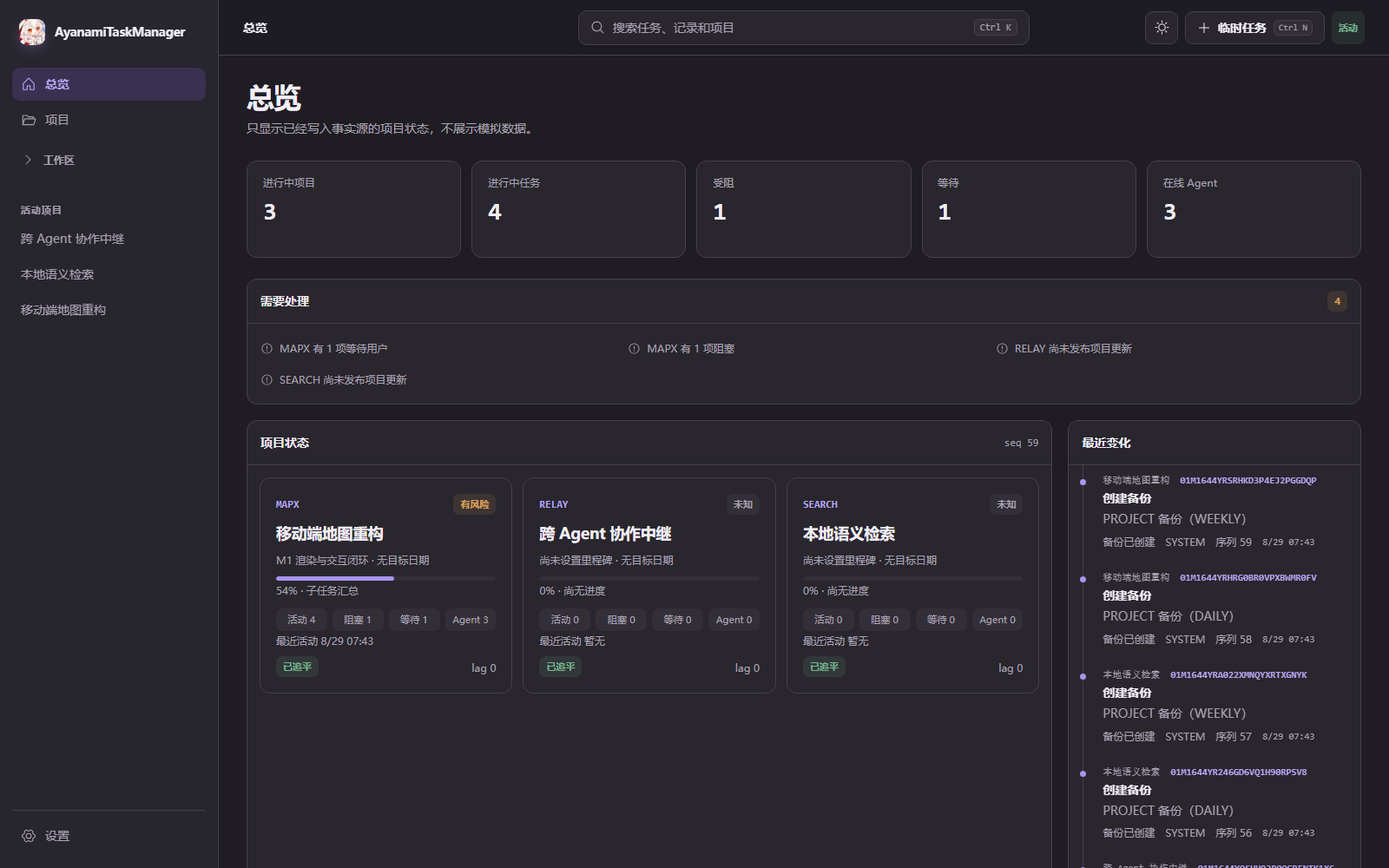
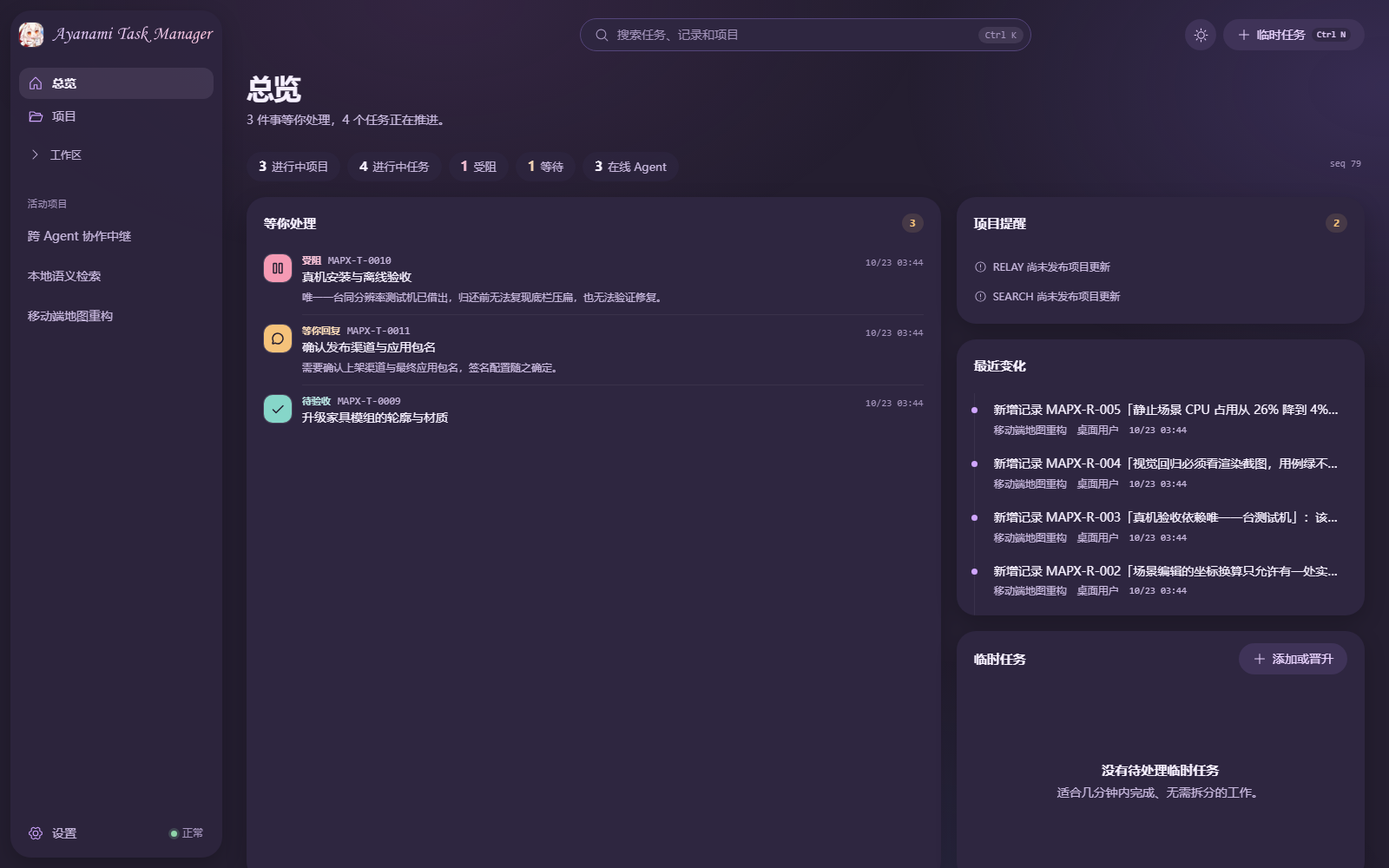
docs(readme): rewrite for 3.0
The README had grown into a stack of per-version sections (3.0.0, 1.1.5, the knowledge
base release) on top of a 2.x benchmark table. It now reads front to back:

- what ATM is for, then three steps to use it (install, connect an agent, one sentence
  to the agent);
- how an agent works with it, the two profiles, the shared knowledge base, and the
  generated tool-surface stats (unchanged, still checked byte for byte);
- the desktop app, with the keep-alive task and optional phone sync;
- 3.0 as one process, with the release gate lines next to the 3.0.0 measurements in
  place of the 2.x service benchmark;
- upgrade and rollback (2.x direct, 1.x through v2.0.0, "ATM 修复"), data locations;
- the security boundary in four lines, how each version is verified, ATM built with ATM,
  local development including the Rust gates.

Screenshots are regenerated from the seeded sample data for the current UI.

diff --git a/README.md b/README.md
@@ -12,7 +12,7 @@
   </p>
 
   <p>
-    <a href="https://github.com/ayanamislover/AyanamiTaskManager/releases/latest"><strong>下载稳定版</strong></a>
+    <a href="https://github.com/ayanamislover/AyanamiTaskManager/releases/latest"><strong>下载 3.0</strong></a>
     ·
     <a href="./docs/user-guide.md">用户指南</a>
     ·
@@ -20,7 +20,7 @@
     ·
     <a href="./docs/security-model.md">安全模型</a>
     ·
-    <a href="./docs/local-knowledge.md">共享知识库</a>
+    <a href="./docs/troubleshooting.md">排障</a>
   </p>
 </div>
 
@@ -29,173 +29,48 @@
 <div align="center">
   <picture>
     <source media="(prefers-color-scheme: dark)" srcset="./docs/assets/screenshot-project-dark.png" />
-    <img src="./docs/assets/screenshot-project-light.png" alt="ATM 项目页：当前进行、阻塞与等待、Agent 与领取、下一步四个面板，以及数据投影状态" width="100%" />
+    <img src="./docs/assets/screenshot-project-light.png" alt="ATM 项目页：目标、里程碑、健康度、进度，以及任务列表" width="100%" />
   </picture>
-  <p><sub>示例数据：结构取自真实项目，字面内容已全部重写。可用 <code>pnpm exec tsx scripts/render-readme-screenshot.ts</code> 复现。</sub></p>
+  <p><sub>示例数据：结构取自真实项目，字面内容全部重写。用 <code>pnpm exec tsx scripts/render-readme-screenshot.ts</code> 复现。</sub></p>
 </div>
 
 ---
 
-Agent 写代码不难，难的是**换一次 Session 就忘了项目到哪儿了**。上下文被压缩、进程重启、换个 Agent 接手——项目历史只活在聊天记录里，于是每次开工都要重新翻一遍，翻完还未必翻对。
+Agent 写代码不难，难的是**换一次 Session 就忘了项目到哪儿了**。上下文被压缩、进程重启、换一个 Agent 接手，项目历史只留在聊天记录里，每次开工都得重新翻一遍，翻完还未必翻对。
 
-AyanamiTaskManager（ATM）把计划、任务、进度、阻塞、长期记录、证据和 Session 交接收进一个稳定的事实源，Agent 开工时读一份 brief 就能接着干。它不是另一份待办清单，也不保存整段对话，只保留真正会影响项目推进的结构化事实。桌面 UI、MCP、CLI 与本地 HTTP 共用同一套事务应用服务——你在界面上看到的，和 Agent 读到的，永远是同一份数据。
+AyanamiTaskManager（ATM）把计划、任务、进度、阻塞、长期记录、证据和 Session 交接放进一个本地事实源。Agent 开工时读一份 brief 就能接着做。它不保存整段对话，只留下会影响项目推进的结构化事实。桌面界面、MCP、CLI 和本地 HTTP 读写的是同一个数据库，你在界面上看到的就是 Agent 读到的。
 
-## 3.0.0 · 单进程原生宿主，数据换到新目录
+## 三步用起来
 
-这一版把 2.x 的 Electron + Node 换成**一个 Rust 原生宿主进程**：窗口、托盘、本地服务与 Agent 接入都在这一个进程里，界面由系统自带的 WebView2 渲染，安装包不再携带 Node。
+1. 从 [Latest Release](https://github.com/ayanamislover/AyanamiTaskManager/releases/latest) 下载 `atm-setup.exe` 并运行。支持 Windows 10/11 x64；界面用系统自带的 WebView2 渲染，一般已经预装。不想安装就用 `AyanamiTaskManager-*-win-x64-portable.zip`。
+2. 打开 ATM，进入「设置 → Agent 接入」，给要用的客户端点「安装」：Codex、Claude Desktop、Claude Code、Kimi Code。ATM 只合并自己的条目，写入前先备份原配置。装完重启客户端。
+3. 对 Agent 说一句：
 
-- **数据换到新目录。** 3.0 的数据位于 `%LOCALAPPDATA%\AyanamiTaskManager3`，所有项目、共享知识与设置都在一个数据库 `data\atm.sqlite` 里。
-- **首次启动自动转换 2.x 数据。** 3.0 第一次启动时把 `%LOCALAPPDATA%\AyanamiTaskManager` 里的 2.x 数据转换到新目录；旧目录保持不动。
-- **1.x 要先升级到 2.x。** 3.0 只从 2.x 的数据转换，仍在用 1.x 时先升级到 2.x，再升级到 3.0。
-- **可以经安装器回退到 2.x。** 2.x 数据原样可用，但 3.0 期间的写入不会带回 2.x；回退后再升级的处理见[用户指南](./docs/user-guide.md#从-2x-升级与回退)。
-- **数据库读不出时有恢复页。** ATM 不服务，也不改写数据库和备份（只记下这一状态、照常写日志），窗口列出整库备份并给出恢复命令；步骤见[排障指南](./docs/troubleshooting.md#数据库读不出)。
+   > 执行项目前先访问 ATM 工具，并阅读 `%LOCALAPPDATA%\AyanamiTaskManager\ATM_AGENT_GUIDE.md`；受管开发任务的计划、进度、证据和交接均通过 ATM 管理。
 
-正式发布状态和制品证据以 [GitHub Release](https://github.com/ayanamislover/AyanamiTaskManager/releases) 为准。
+之后 Agent 会自己开项目、拆任务、写进度、交接。项目还没登记时自动创建，只有名字、代码或目录拿不准时才问你。
 
-## 1.1.5 · 知识能完整读回，交接更稳
+已经在用 2.x 或 1.x，先看[升级与回退](#升级与回退)。
 
-这一轮聚焦知识工作流的可靠性：**合法内容读得全，保存重试不重复，长历史也能找到最初的版本。**
+## Agent 怎么用它
 
-- **大元数据也能完整回读。** 长来源、标签和适用条件按固定修订分页返回，编辑前能拿到完整内容，不把截断预览当成原文覆盖。
-- **会话结束，已成功的写入仍可安全重试。** 完全相同的原请求返回原回执；新操作仍需要活动会话，不会复活已关闭 Session。
-- **编辑不再被慢响应覆盖。** 保存过程中锁定竞争入口；标签连续输入保留分隔符，修订历史可翻页，满 30 条来源的导出导入仍能保存。
-- **历史列表更轻。** SQLite 先去掉不需要的正文再返回历史；新回执引用不可变修订，避免重复保存大正文。
-- **实时连接有明确退路。** 增量发送串行补齐，异常、发送超时和断开清理均有回归覆盖；慢客户端可按已处理序号重新连接。
+一次 Session 的最短路径：
 
-保留 Agent 直接发布知识和原有桌面设计，不增加逐篇人工审批。升级前请保留备份；如需退回不支持紧凑回执的旧版本，应恢复对应备份。查看[审计修复与验收说明](./docs/audit-1.1.4-remediation.md)；正式发布状态和制品证据以 [GitHub Release](https://github.com/ayanamislover/AyanamiTaskManager/releases) 为准。
+1. `atm_begin` 开工，直接用返回的 brief。
+2. 挑一个 READY 的叶子 WorkItem，`atm_task_patch(operation: "start")` 领取。
+3. 状态真的变了才写 progress；决策、事实、风险和证据写 record。
+4. 验证完 `complete`（可以带上证据），收工 `atm_end`。
 
-### 共享知识库 · 让经验跨项目复用
-
-**项目事实留在项目里，通用知识按需读取。** 共享知识与项目数据在同一个本地数据库里，作为独立范围保存、备份与恢复；项目归档后，已经发布的知识修订仍可引用。
-
-- **先筛选，再读正文。** `atm_knowledge_search` 返回摘要、使用场景和适用范围；`atm_knowledge_get` 再读取选中条目或指定章节。不把整库塞进开工 brief。
-- **引用不随编辑漂移。** 使用不可变的 `id@revisionId`，正文可按字符预算分页读取；条目修改后，旧修订仍有自己的身份。
-- **Agent 直接沉淀，不用手工搬运。** MCP 可检索、读取、发布和更新共享知识，自动记录会话作者、固定修订与防覆盖基线；桌面端仍可管理、归档和导入／导出。参考资料不授予新的执行权限。
-
-同时改进了 Session 身份与角色恢复、批量操作 ACK 的最终版本回执、幂等请求一致性，以及启动和长正文读取的开销。安装包携带更新后的 Agent Guide、完整文档与 `atm-knowledge` Skill。
-
-查看[知识库使用说明](./docs/local-knowledge.md) · [版本与下载](https://github.com/ayanamislover/AyanamiTaskManager/releases)。正式发布状态以 Release 页面为准。
-
-## 为什么需要 ATM
-
-| 能力             | ATM 提供的结果                                                                                                                       |
-| ---------------- | ------------------------------------------------------------------------------------------------------------------------------------ |
-| **一份事实源**   | 目标、里程碑、叶子 WorkItem、依赖、验收标准与证据始终一致；界面和 Agent 读同一份数据                                                 |
-| **Agent 原生**   | Codex、Claude Desktop、Claude Code、Kimi Code 经 MCP 直接领取、推进、交接，不需要人来转述                                            |
-| **压缩后可恢复** | brief / delta / 精确读取 + 长期 records，开工读一份摘要即可续上，不重扫历史                                                          |
-| **跨项目知识**   | 本地共享知识库、不可变修订和按需读取，让通用经验复用而不淹没开工 brief                                                               |
-| **并发不打架**   | Session 领取、幂等 mutation、乐观并发版本号、租约过期接管、Review 状态全程可追溯                                                     |
-| **工程可见**     | 项目时间线、Session 的 Git 上下文、工程统计、在线备份恢复与发布证据同屏呈现                                                          |
-| **完全本地**     | 全部数据在一个本地 SQLite 库，仅监听 loopback，令牌每次启动轮换，不需要任何云端账号                                                  |
-| **手机随身**     | 手机 App 看任务、发任务，勾一下「交给 Claude」就自动领取、完善目标并开工；中继服务器像 RustDesk 一样自己配，内容端到端加密，默认关闭 |
-
-## 用 ATM 开发 ATM
-
-这个项目自己的规划、任务拆分、跨 Agent 交接与验收，也由 ATM 管理。我们在日常开发中验证的，不只是能不能记下一条任务，而是**换一个 Session 后，能否准确接着做**。
-
-<details>
-<summary>展开历史实战快照 · 2026-08-29（不是当前版本统计）</summary>
-
-ATM 自己就是用 ATM 管的。下面是本机 SQLite 里的真实计数，截至 2026-08-29：
-
-| 指标          | ATM 自身开发                | 本机全部 11 个受管项目 |
-| ------------- | --------------------------- | ---------------------- |
-| 工作项        | 300（282 完成 / 18 取消）   | 1,129（871 完成）      |
-| Agent Session | 273，来自 117 个 Agent 身份 | 819                    |
-| 进度更新      | 399                         | 1,304                  |
-| 长期记录      | 130                         | 1,019                  |
-| 事件          | 3,038                       | 11,659                 |
-| 时间跨度      | 22 天（8/7 – 8/29）         | —                      |
-
-值得看的不是总量，是**平均每个 Session 只推进约 1.1 个工作项**——273 次开工分布在 117 个不同的 Agent 身份上：Codex 系 144 次、CLI 71 次、Claude Code 30 次，其余为子 Agent 与本地工具。这正是 Agent 开发的常态：单次会话很短，换手极其频繁。同一段时间里，这些 Session 产出了 47,184 行生产代码与 45,314 行测试代码，分布在 648 个文件中。
-
-支撑这个节奏的不是更长的上下文，是每次开工都能拿到一份可信的 brief。
-
-</details>
-
-## 性能与交付证据
-
-事实源必须足够轻，才能成为每次开工的习惯。[性能基准](./scripts/benchmark.ts) 使用真实 SQLite，以下是验收上限，不是当前设备上的实测承诺：
-
-| 场景                        | 门禁上限   |
-| --------------------------- | ---------- |
-| 应用服务打开数据库          | 3,000 ms   |
-| 100 个项目的总览            | p95 200 ms |
-| 10,000 条任务的筛选列表     | p95 200 ms |
-| 50,000 篇项目文档的中文检索 | p95 300 ms |
-| 单次写入并落事件            | p95 100 ms |
-| 增量拉取 100 条事件         | p95 100 ms |
-| 隔离服务探针的空闲 RSS      | 150 MB     |
-
-服务启动时间不等于桌面首屏时间，服务 RSS 也不是整个桌面应用（宿主进程与 WebView2 进程）的内存总量。知识库检索与这里的项目文档检索是不同入口；每个版本的实际结果请看对应发行报告。
-
-每个版本还带一份可核对的证据包：候选先算指纹（gitHead、工作区脏状态哈希、源码哈希、lockfile 哈希、各阶段哈希），再逐层验证，每层记录产物的 SHA-256——
-
-**SOURCE_DONE → CI_VERIFIED → PACKAGED_VERIFIED → INSTALLED_VERIFIED**
-
-任一层哈希对不上，流水线就停在那一层。源码测试、打包运行、安装／升级／卸载和本机部署是不同证据，不能互相代替。测试数量与实测值由当轮报告生成，不把旧版本的绿灯贴到新候选上。完整规则见[发布检查表](./docs/release-checklist.md)。
-
-## 产品结构
-
-<div align="center">
-  <picture>
-    <source media="(prefers-color-scheme: dark)" srcset="./docs/assets/architecture-dark.svg" />
-    <img src="./docs/assets/architecture-light.svg" alt="AI Agents 经 MCP 连接本地动态 bridge，与桌面 UI（WebView2）、CLI 共用同一套应用服务，写入本地 SQLite" width="100%" />
-  </picture>
-</div>
-
-正式桌面 daemon 每次启动都会轮换本地鉴权令牌。Agent 配置连接的是动态 bridge，而不是把 endpoint 或 token 固定写进长期配置；完整边界见[本地安全模型](./docs/security-model.md)。
-
-## 安装
-
-当前稳定版支持 Windows 10/11 x64。
-
-1. 打开 [Latest Release](https://github.com/ayanamislover/AyanamiTaskManager/releases/latest)。
-2. 日常使用选择 `atm-setup.exe`；需要免安装时选择 `AyanamiTaskManager-*-win-x64-portable.zip`。
-3. 启动 ATM，在“设置 → Agent 接入”中安装 Codex、Claude Desktop、Claude Code 或 Kimi Code 配置。
-4. 开启“登录启动”后，ATM 会在 Windows 登录后随机延迟后台启动；关闭窗口只会收进托盘。
-
-3.0 的应用数据默认位于 `%LOCALAPPDATA%\AyanamiTaskManager3`（数据库为 `data\atm.sqlite`）。`%LOCALAPPDATA%\AyanamiTaskManager` 保留 2.x 数据（3.0 只读不写，供回退），安装版还会把精简 Agent Guide 与完整文档同步到这里，换设备后仍能从同一路径发现使用说明。
-
-下载后可用 Release 附带的 `SHA256SUMS.txt` 核对文件。Setup 与 portable 是两种分发方式，使用差异见[便携版说明](./docs/portable-usage.md)；`atm-*-win-x64.zip` 与同名 `.json` 是安装版的更新包和清单，由安装器读取，不是另一个需要手动安装的应用。
-
-> [!IMPORTANT]
-> 不要把 `%LOCALAPPDATA%\AyanamiTaskManager3\runtime\daemon.json`、Bearer token、`data\atm.sqlite` 或 `backups\` 提交到仓库。ATM 的运行时发现文件只服务当前 Windows 用户和当前 daemon 实例。
-
-## Agent 接入
-
-ATM 会最小合并现有配置，并在写入前创建备份：
-
-| 客户端         | MCP 配置                                      | 规则与技能                                      |
-| -------------- | --------------------------------------------- | ----------------------------------------------- |
-| Codex          | `~/.codex/config.toml`                        | `~/.codex/AGENTS.md`、`~/.codex/skills`         |
-| Claude Desktop | `%APPDATA%/Claude/claude_desktop_config.json` | `~/.claude/CLAUDE.md`、`~/.claude/skills`       |
-| Claude Code    | 由官方 `claude` CLI 注册                      | 与 Claude Desktop 共用                          |
-| Kimi Code      | `~/.kimi-code/mcp.json`                       | `~/.kimi-code/AGENTS.md`、`~/.kimi-code/skills` |
-
-最短工作流：
-
-1. `atm_begin` 开工，并直接使用返回的 brief。
-2. 按需读取 READY 叶子 WorkItem，`atm_task_patch(operation: "start")` 领取并开工。
-3. 只在状态真正变化时写 progress；长期事实、决策、风险和证据写 record。
-4. 验证后 `complete`（可同时带证据），会话结束调用 `atm_end`。
-
-只有上下文压缩、长时间离开或明确恢复 working set 时才调用 `atm_brief`（Claude Code、Codex 上可以不带参数）。出错时照错误里的 `fix` 执行。任务过大时，应先按“可交付结果 + 可验证验收”拆成独立叶子 WorkItem。
-
-安装后让 Agent 从这里开始，无需记住源码仓库在哪：
-
-> 执行项目前先访问 ATM 工具，并阅读 `%LOCALAPPDATA%\AyanamiTaskManager\ATM_AGENT_GUIDE.md`；受管开发任务的计划、进度、证据和交接均通过 ATM 管理。
-
-完整规则和字段约定见 [Agent 接入指南](./docs/agent-integration.md) 与 [Agent Guide 在线版](./ATM_AGENT_GUIDE.md)。受管项目未注册时自动创建；只有无法可靠确定项目名称、代码或目录时才请求确认。
+上下文被压缩或离开很久，再调一次 `atm_brief` 取回 working set，不用重扫历史。出错时照着错误里的 `fix` 改。任务太大时先按「可交付结果 + 可验证的验收」拆成叶子 WorkItem。
 
 | Profile  | 做什么                                         | 工具                                                                                                                                        |
 | -------- | ---------------------------------------------- | ------------------------------------------------------------------------------------------------------------------------------------------- |
 | `core`   | 开工、找任务、拆任务、改状态、进度与记录、交接 | `atm_begin`、`atm_brief`、`atm_task_list`、`atm_task_get`、`atm_task_create`、`atm_task_patch`、`atm_progress_add`、`atm_record`、`atm_end` |
-| `memory` | 搜索与跨项目共享知识                           | `atm_search`、`atm_knowledge_search` → `atm_knowledge_get`、`atm_knowledge_save`（先查重，更新带旧修订 ID）                                 |
+| `memory` | 搜索，以及跨项目共享的知识                     | `atm_search`、`atm_knowledge_search` → `atm_knowledge_get`、`atm_knowledge_save`                                                            |
 
-需要参考通用经验时，先搜索知识摘要，再按适用范围读取正文；重要结论保留 `id@revisionId` 引用。有可复用结论时由 Agent 直接发布，不要求用户逐篇导入。更新前用 `atm_knowledge_get(for_edit=true)` 读取完整正文和编辑元数据。项目 Record 只存项目事实，不复制整篇知识。若升级后看不到新工具，请重载客户端 MCP。
+**共享知识库**放跨项目的规范、接口约定和排障经验。Agent 先用 `atm_knowledge_search` 看摘要和适用范围，再用 `atm_knowledge_get` 读选中的那篇；引用写成不可变的 `id@revisionId`，原文以后再改也不会漂。有可复用的结论时，Agent 直接发布，不用你逐篇导入。项目 Record 只放项目自己的事实。
 
-旧配置里的 `actions` profile 是 core 的别名，照常可用；`atm_delta`、`atm_feedback` 并入了 `atm_brief(since_seq)` 与 `atm_record(kind: "ATM_FEEDBACK")`，旧名仍可调用。下面的工具数、字节数、预算与余量由代码生成，避免文档数字漂移。
+旧配置里的 `actions` profile 是 core 的别名，照常可用；`atm_delta`、`atm_feedback` 分别并入了 `atm_brief(since_seq)` 与 `atm_record(kind: "ATM_FEEDBACK")`，旧名仍能调用。完整规则见 [Agent 接入指南](./docs/agent-integration.md) 与 [Agent Guide](./ATM_AGENT_GUIDE.md)。
 
 <!-- MCP_TOOL_STATS:BEGIN -->
 
@@ -222,31 +97,106 @@ ATM 会最小合并现有配置，并在写入前创建备份：
 
 <!-- MCP_TOOL_STATS:END -->
 
-## 日常使用
+## 桌面端
 
 <div align="center">
   <picture>
     <source media="(prefers-color-scheme: dark)" srcset="./docs/assets/screenshot-overview-dark.png" />
-    <img src="./docs/assets/screenshot-overview-light.png" alt="ATM 总览页：跨项目 KPI、等你处理清单、各项目健康度与最近变化时间线" width="100%" />
+    <img src="./docs/assets/screenshot-overview-light.png" alt="ATM 总览页：跨项目 KPI、等你处理清单、各项目健康度与最近变化" width="100%" />
   </picture>
-  <p><sub>总览把所有受管项目的进行中、受阻、等待和在线 Agent 汇到一屏。</sub></p>
+  <p><sub>总览把所有受管项目的进行中、受阻、等待和在线 Agent 放在一屏。</sub></p>
 </div>
 
-桌面端提供：
+- **总览与项目**：健康度、里程碑、目标日期、进度来源，「等你处理」逐条列出等你回复、受阻和待验收的任务。
+- **任务**：列表、看板、时间线、层级四种视图，加上长期记录；筛选组合可以存成视图。
+- **Agent**：按项目聚合在线与历史 Session，显示每个 Session 的 Git 分支、HEAD 和工作区状态，同一分支上有多个 Session 时提醒。
+- **知识库**：修订历史、归档，Markdown 导入导出。
+- **数据安全**：在线备份与恢复、导入导出；数据库读不出时进入恢复页，列出可用的整库备份。
+- **常驻**：关窗收进托盘，服务和 Agent 接入照常运行；可以开机后台启动。安装版还登记一个「AyanamiTaskManager 保活」计划任务，ATM 意外退出后约 5 分钟内自动拉起。
+- **手机同步（可选，默认关闭）**：在手机上看任务、发任务，勾「交给 Claude」就自动领取开工。ATM 不内置任何服务器，需要你自建 [atm-relay](./apps/relay/README.md)；内容端到端加密，见[手机同步说明](./docs/mobile-sync.md)。
 
-- 总览、项目、任务列表/看板/时间线/层级和长期记录；
-- Agent 按项目聚合、Session Git 上下文、claim 与交接；
-- 临时任务晋升、保存视图和中文搜索；
-- 在线备份恢复、导入导出、工程统计与托盘通知；
-- 本地共享知识库、修订历史、归档与 Markdown 导入／导出；
-- 开机随机延迟后台启动，以及关闭到托盘的常驻模式。
-- 可选的手机同步与 Claude 自动开工：ATM 不内置任何服务器，需要你自建 [atm-relay](./apps/relay/README.md)（或任何兼容同一 HTTP 子集的服务）；设计与安全边界见[手机同步说明](./docs/mobile-sync.md)。
+操作细节见[用户指南](./docs/user-guide.md)，遇到问题看[排障指南](./docs/troubleshooting.md)，便携版的差异见[便携版说明](./docs/portable-usage.md)。
 
-更完整的操作说明见[用户指南](./docs/user-guide.md)，故障定位见[排障指南](./docs/troubleshooting.md)，便携版差异见[便携版说明](./docs/portable-usage.md)。
+## 3.0：一个进程
+
+3.0 把核心从 Node 用 Rust 重写了。窗口、托盘、本地服务、MCP 和 CLI 都在一个 `AyanamiTaskManager.exe` 进程里，安装包里不再有 Node。下表是 3.0.0 候选在发布链里的实测值，每一条都是发布门禁，超线就不出包：
+
+| 项目                       | 门禁线              | 3.0.0 实测 |
+| -------------------------- | ------------------- | ---------: |
+| 装好后的程序目录           | ≤ 20 MiB            |   16.0 MiB |
+| 更新包                     | ≤ 10 MiB            |    7.7 MiB |
+| 后台空闲内存（Private）    | ≤ 40 MiB            |    7.3 MiB |
+| Agent 调用之后             | ≤ 60 MiB            |    9.4 MiB |
+| 关窗之后                   | ≤ 后台空闲 + 50 MiB |   22.1 MiB |
+| 反复关开窗口               | 不上涨超过 5 MiB    |   +1.1 MiB |
+| 冷启动到后台可用           | ≤ 500 ms            |     132 ms |
+| 冷启动到窗口出现           | ≤ 1200 ms           |     621 ms |
+| 2.x 数据首次转换（样本库） | ≤ 60 s              |     12.6 s |
+
+内存是 Windows 的 Private 字节，中位数，取 5 轮；体积和转换各量一次。每个版本的实测值在它的 Release 附带的 test-report 里。
+
+## 升级与回退
+
+- **数据在哪**：3.0 的数据在 `%LOCALAPPDATA%\AyanamiTaskManager3`，项目、共享知识和设置都在 `data\atm.sqlite` 一个库里。`%LOCALAPPDATA%\AyanamiTaskManager` 留着 2.x 的数据（3.0 只读不写），还有 ATM 同步过去的 Agent Guide、文档与 Skills。
+- **从 2.x 升级**：直接装 3.0。第一次启动时把 2.x 的数据转换进新目录，旧目录不动；转换失败会自动撤回到 2.x。
+- **从 1.x 升级**：先装 [v2.0.0](https://github.com/ayanamislover/AyanamiTaskManager/releases/tag/v2.0.0)，再装 3.0。3.0 只认 2.x 的数据。
+- **Agent 配置不用改**：3.0 把新的 `atm-mcp.exe` 放在原来的位置，启动时也会修正指向旧版本的条目。升级后重启客户端即可。
+- **回退**：开始菜单里的「ATM 修复」可以回到升级前的 2.x，2.x 的数据原样可用，3.0 期间的写入不会带回去。之后再升级时，回退期间没在 2.x 里写过东西就无损接回；写过的话以 2.x 为准重新转换，3.0 的数据整份封存在 `AyanamiTaskManager3\superseded\`，不删除。细节见[用户指南](./docs/user-guide.md#从-2x-升级与回退)。
+
+> [!IMPORTANT]
+> 不要把 `%LOCALAPPDATA%\AyanamiTaskManager3\runtime\daemon.json`、Bearer token、`data\atm.sqlite` 或 `backups\` 提交到仓库，也不要贴进对话或 ATM Record。
+
+## 安全边界
+
+- **只在本机**：服务只监听 loopback，不需要任何云端账号。
+- **令牌不落进配置**：每次启动生成新的 Bearer token，写进只给当前 Windows 用户用的发现文件；Agent 配置连的是 stdio bridge，它每次请求都重新读发现文件，所以配置里既没有端口也没有 token。
+- **Agent 替不了你**：Agent 持有的凭证做不了只属于用户的操作（比如授权、改设置）。调用了会得到 403，什么都不变。
+- **手机同步不信任中继**：内容在本机加密后才发出去，中继只看得到键名、大小和时间；中继 token 和空间密钥经 Windows DPAPI 加密保存，不会退回明文。
+
+完整的威胁模型和非目标见[本地安全模型](./docs/security-model.md)。
+
+<div align="center">
+  <picture>
+    <source media="(prefers-color-scheme: dark)" srcset="./docs/assets/architecture-dark.svg" />
+    <img src="./docs/assets/architecture-light.svg" alt="AI Agents 经 MCP 连接本地动态 bridge，与桌面 UI（WebView2）、CLI 共用同一套应用服务，写入本地 SQLite" width="100%" />
+  </picture>
+</div>
+
+## 每个版本怎么验证
+
+候选先算指纹：gitHead、工作区状态、源码与 lockfile 的哈希、各阶段输入的哈希。然后逐层验证，每层记下产物的 SHA-256：
+
+**SOURCE_DONE → CI_VERIFIED → PACKAGED_VERIFIED → INSTALLED_VERIFIED**
+
+任何一层的哈希对不上，流水线就停在那一层。源码测试、打包后运行、在干净机器上安装 / 升级 / 卸载，是三种不同的证据，不能互相顶替。测试数量和实测值由当轮报告生成，旧版本的绿灯不会贴到新候选上。每个 Release 附带 test-report、`release.json` 与 `SHA256SUMS.txt`，写明这一版走到了哪一层。
+
+发布链本身的规则见[发布检查表](./docs/release-checklist.md)。
+
+## 用 ATM 开发 ATM
+
+这个项目自己的规划、任务拆分、跨 Agent 交接和验收也由 ATM 管理。我们每天验证的不是「能不能记下一条任务」，而是**换一个 Session 之后，能不能准确地接着做**。3.0 的 Rust 重写就是这样做完的：每个阶段由 Claude 实现、Codex 独立评审，迭代到通过为止，中间换了无数次 Session。
+
+<details>
+<summary>展开历史快照 · 2026-08-29（不是当前统计）</summary>
+
+截至 2026-08-29，本机 SQLite 里的真实计数：
+
+| 指标          | ATM 自身开发                | 本机全部 11 个受管项目 |
+| ------------- | --------------------------- | ---------------------- |
+| 工作项        | 300（282 完成 / 18 取消）   | 1,129（871 完成）      |
+| Agent Session | 273，来自 117 个 Agent 身份 | 819                    |
+| 进度更新      | 399                         | 1,304                  |
+| 长期记录      | 130                         | 1,019                  |
+| 事件          | 3,038                       | 11,659                 |
+| 时间跨度      | 22 天（8/7 – 8/29）         | —                      |
+
+值得看的不是总量，而是**平均每个 Session 只推进约 1.1 个工作项**：273 次开工分布在 117 个 Agent 身份上，Codex 系 144 次、CLI 71 次、Claude Code 30 次，其余是子 Agent 与本地工具。单次会话很短、换手极频繁，这是 Agent 开发的常态。撑住这个节奏的不是更长的上下文，而是每次开工都拿得到一份可信的 brief。
+
+</details>
 
 ## 本地开发
 
-需要 Node.js `>=22.13.0`、pnpm `11.16.0` 与 Rust 工具链（版本钉在 `apps/desktop/native/rust-toolchain.toml`，rustup 在该目录首次构建时自动安装）：
+需要 Node.js `>=22.13.0`、pnpm `11.16.0` 和 Rust 工具链。Rust 版本钉在 `apps/desktop/native/rust-toolchain.toml`，第一次在该目录构建时 rustup 会自动安装。
 
 ```powershell
 git clone https://github.com/ayanamislover/AyanamiTaskManager.git
@@ -256,9 +206,9 @@ pnpm install --frozen-lockfile
 pnpm dev
 ```
 
-`pnpm dev` 先构建 debug 原生宿主，再用 Vite 持续构建界面到 `apps/desktop/dist/renderer`，由宿主直接加载；`pnpm test:e2e` 用的 Vite 开发服务器固定监听 `http://127.0.0.1:9999`。本地服务 API 使用运行时发现文件声明的独立 loopback 端口。`pnpm dev` 默认把两个数据根都放在 `output/` 下、与本机正在用的 ATM 分开：2.x 源根 `ATM_DATA_DIR` 是 `output/dev-data`，3.0 数据根 `ATM3_DATA_DIR` 是 `output/dev-data3`；启动前设置这两个变量可以换成别的目录。
+`pnpm dev` 先构建 debug 版的原生宿主，再用 Vite 持续构建界面，由宿主直接加载。开发时的两个数据根都放在 `output/` 下，和本机正在用的 ATM 分开：2.x 源根 `ATM_DATA_DIR` 是 `output/dev-data`，3.0 数据根 `ATM3_DATA_DIR` 是 `output/dev-data3`；启动前设置这两个变量可以换成别的目录。`pnpm test:e2e` 用的 Vite 开发服务器固定在 `http://127.0.0.1:9999`。
 
-六道质量门禁，缺一道都不算过：
+提交前要过的门禁：
 
 ```powershell
 pnpm format:check
@@ -269,9 +219,9 @@ pnpm build
 pnpm test:e2e
 ```
 
-发布流水线在这之上继续：生成并验证原生安装器、更新包与 portable ZIP，跑 packaged / distribution smoke、性能 benchmark 和安装态验收，最后把上面那份四层证据包落盘。维护者流程见[发布检查表](./docs/release-checklist.md)。
+Rust 一侧在 `apps/desktop/native` 下跑 `cargo fmt --check`、`cargo clippy --workspace --all-targets` 与 `cargo test --workspace`。发布链在这些之上还会打包，跑 packaged / distribution smoke、安装演练、掉电演练和预算测量，最后落一份四层证据包，见[发布检查表](./docs/release-checklist.md)。
 
-README 里的图和截图都由脚本生成，不手工维护：
+README 里的图和截图都由脚本生成：
 
 ```powershell
 pnpm exec tsx scripts/render-architecture-diagram.ts
@@ -280,11 +230,11 @@ pnpm exec tsx scripts/render-readme-screenshot.ts
 
 ## 参与贡献
 
-欢迎提交问题、文档改进和经过验证的修复。开始前请阅读[贡献指南](./CONTRIBUTING.md)与[行为准则](./CODE_OF_CONDUCT.md)。安全问题不要公开提交 Issue，请按[安全策略](./SECURITY.md)私下报告。
+欢迎提交问题、文档改进和经过验证的修复。开始前请读[贡献指南](./CONTRIBUTING.md)和[行为准则](./CODE_OF_CONDUCT.md)。安全问题请不要公开提 Issue，按[安全策略](./SECURITY.md)私下报告。
 
 ## 开源许可
 
-AyanamiTaskManager 以 [GNU Affero General Public License v3.0 only](./LICENSE) 发布。项目 logo 与视觉资产的来源说明见[视觉资产来源](./docs/asset-provenance.md)；第三方依赖继续遵循各自许可证。
+AyanamiTaskManager 以 [GNU Affero General Public License v3.0 only](./LICENSE) 发布。logo 与视觉资产的来源见[视觉资产来源](./docs/asset-provenance.md)；第三方依赖遵循各自的许可证。
 
 <div align="center">
   <sub>Local-first · Agent-native · Built with care by Ayanami, Codex and Claude.</sub>
